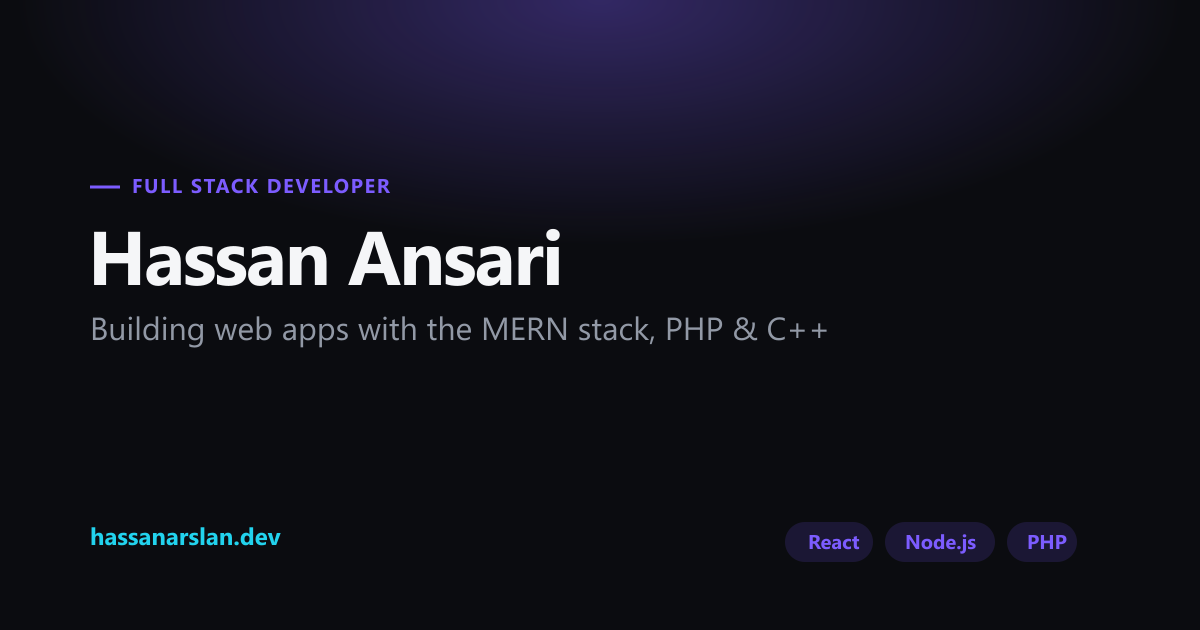
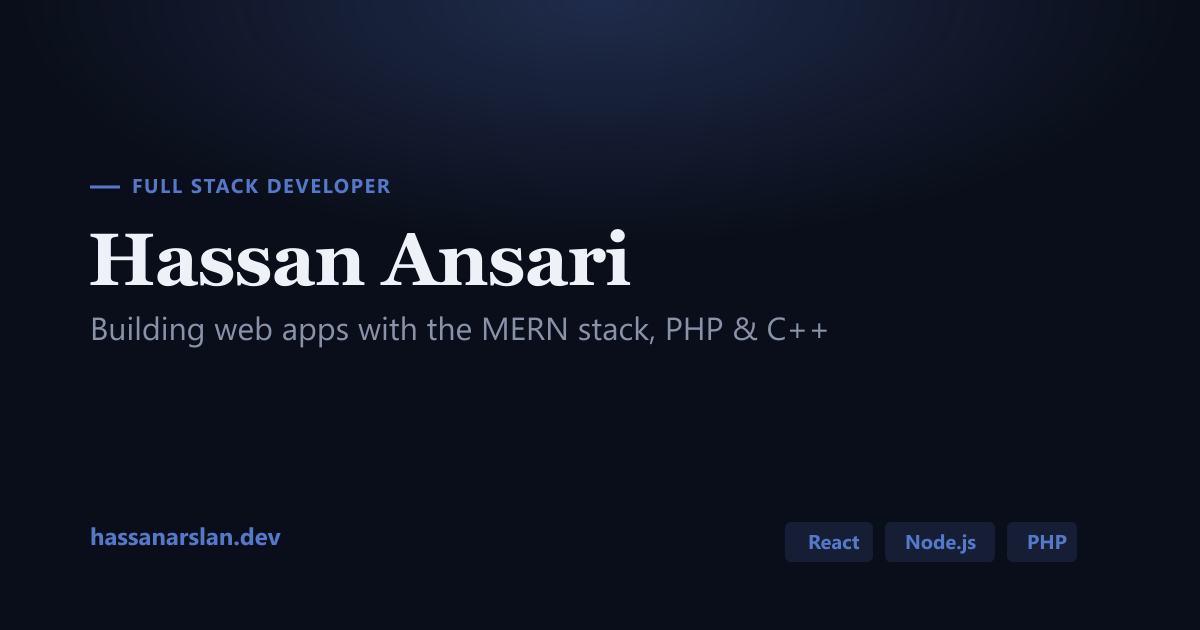
Rework theme to muted navy/slate with serif headings
- Replace purple/cyan gradient palette with a single muted blue accent on navy background, for a more professional/corporate look
- Add Playfair Display serif for headings (h1-h3), keep Inter for body
- Regenerate favicon and OG image to match new palette
- Fix icon components dropping the base .icon class when given a custom className (caused oversized icons, e.g. the project card external-link icon)

diff --git a/src/components/icons.jsx b/src/components/icons.jsx
@@ -1,62 +1,62 @@
-export function GithubIcon(props) {
+export function GithubIcon({ className = '', ...props }) {
   return (
-    <svg className="icon" viewBox="0 0 24 24" {...props}>
+    <svg className={`icon ${className}`} viewBox="0 0 24 24" {...props}>
       <path d="M12 .5C5.73.5.5 5.73.5 12c0 5.08 3.29 9.39 7.86 10.91.58.1.79-.25.79-.56v-2.17c-3.2.7-3.88-1.36-3.88-1.36-.52-1.34-1.28-1.7-1.28-1.7-1.05-.72.08-.7.08-.7 1.16.08 1.77 1.19 1.77 1.19 1.03 1.77 2.7 1.26 3.36.96.1-.75.4-1.26.73-1.55-2.55-.29-5.24-1.28-5.24-5.68 0-1.26.45-2.28 1.19-3.09-.12-.29-.52-1.46.11-3.05 0 0 .97-.31 3.18 1.18a11 11 0 0 1 5.8 0c2.2-1.49 3.17-1.18 3.17-1.18.64 1.59.24 2.76.12 3.05.74.81 1.19 1.83 1.19 3.09 0 4.41-2.7 5.39-5.26 5.67.41.36.78 1.07.78 2.16v3.2c0 .31.21.67.8.56A11.51 11.51 0 0 0 23.5 12c0-6.27-5.23-11.5-11.5-11.5Z" />
     </svg>
   );
 }
 
-export function LinkedinIcon(props) {
+export function LinkedinIcon({ className = '', ...props }) {
   return (
-    <svg className="icon" viewBox="0 0 24 24" {...props}>
+    <svg className={`icon ${className}`} viewBox="0 0 24 24" {...props}>
       <path d="M20.45 20.45h-3.56v-5.57c0-1.33-.02-3.03-1.85-3.03-1.85 0-2.14 1.45-2.14 2.94v5.66H9.34V9h3.41v1.56h.05c.48-.9 1.64-1.85 3.38-1.85 3.61 0 4.28 2.38 4.28 5.47v6.27ZM5.34 7.43a2.06 2.06 0 1 1 0-4.13 2.06 2.06 0 0 1 0 4.13ZM7.12 20.45H3.56V9h3.56v11.45Z" />
     </svg>
   );
 }
 
-export function MailIcon(props) {
+export function MailIcon({ className = '', ...props }) {
   return (
-    <svg className="icon" viewBox="0 0 24 24" {...props}>
+    <svg className={`icon ${className}`} viewBox="0 0 24 24" {...props}>
       <path d="M3 5h18a1 1 0 0 1 1 1v12a1 1 0 0 1-1 1H3a1 1 0 0 1-1-1V6a1 1 0 0 1 1-1Zm17.4 2.28-8.1 6.06a.5.5 0 0 1-.6 0L3.6 7.28A1 1 0 0 0 3 8.16V18h18V8.16a1 1 0 0 0-.6-.88ZM4.2 6l7.8 5.83L19.8 6H4.2Z" />
     </svg>
   );
 }
 
-export function ExternalLinkIcon(props) {
+export function ExternalLinkIcon({ className = '', ...props }) {
   return (
-    <svg className="icon" viewBox="0 0 24 24" {...props}>
+    <svg className={`icon ${className}`} viewBox="0 0 24 24" {...props}>
       <path d="M14 3h7v7h-2V6.41l-9.29 9.3-1.42-1.42 9.3-9.29H14V3ZM5 5h6v2H7v10h10v-4h2v6H5V5Z" />
     </svg>
   );
 }
 
-export function ArrowRightIcon(props) {
+export function ArrowRightIcon({ className = '', ...props }) {
   return (
-    <svg className="icon" viewBox="0 0 24 24" {...props}>
+    <svg className={`icon ${className}`} viewBox="0 0 24 24" {...props}>
       <path d="M13 5l7 7-7 7-1.41-1.41L16.17 13H4v-2h12.17l-4.58-4.59L13 5Z" />
     </svg>
   );
 }
 
-export function DownloadIcon(props) {
+export function DownloadIcon({ className = '', ...props }) {
   return (
-    <svg className="icon" viewBox="0 0 24 24" {...props}>
+    <svg className={`icon ${className}`} viewBox="0 0 24 24" {...props}>
       <path d="M11 3h2v10.17l3.59-3.58L18 11l-6 6-6-6 1.41-1.41L11 13.17V3ZM5 19h14v2H5v-2Z" />
     </svg>
   );
 }
 
-export function PhoneIcon(props) {
+export function PhoneIcon({ className = '', ...props }) {
   return (
-    <svg className="icon" viewBox="0 0 24 24" {...props}>
+    <svg className={`icon ${className}`} viewBox="0 0 24 24" {...props}>
       <path d="M6.62 10.79a15.05 15.05 0 0 0 6.59 6.59l2.2-2.2a1 1 0 0 1 1.02-.24c1.12.37 2.33.57 3.57.57a1 1 0 0 1 1 1V20a1 1 0 0 1-1 1C10.61 21 3 13.39 3 4a1 1 0 0 1 1-1h3.5a1 1 0 0 1 1 1c0 1.24.2 2.45.57 3.57a1 1 0 0 1-.25 1.02l-2.2 2.2Z" />
     </svg>
   );
 }
 
-export function MapPinIcon(props) {
+export function MapPinIcon({ className = '', ...props }) {
   return (
-    <svg className="icon" viewBox="0 0 24 24" {...props}>
+    <svg className={`icon ${className}`} viewBox="0 0 24 24" {...props}>
       <path d="M12 2a7 7 0 0 0-7 7c0 5.25 7 13 7 13s7-7.75 7-13a7 7 0 0 0-7-7Zm0 9.5A2.5 2.5 0 1 1 12 6a2.5 2.5 0 0 1 0 5.5Z" />
     </svg>
   );

diff --git a/src/index.css b/src/index.css
@@ -1,17 +1,18 @@
 :root {
-  --bg: #0b0c10;
-  --bg-alt: #121319;
-  --surface: #16181f;
-  --border: #262834;
-  --text: #c4c7d0;
-  --text-h: #f5f6f8;
-  --text-dim: #7d818f;
-  --accent: #7c5cff;
-  --accent-2: #22d3ee;
-  --accent-bg: rgba(124, 92, 255, 0.12);
+  --bg: #0a0e1a;
+  --bg-alt: #0e1424;
+  --surface: #121a2c;
+  --border: #232d44;
+  --text: #a7b0c2;
+  --text-h: #eef1f7;
+  --text-dim: #626c85;
+  --accent: #5578c9;
+  --accent-hover: #4568b8;
+  --accent-bg: rgba(85, 120, 201, 0.12);
   --shadow: rgba(0, 0, 0, 0.4) 0 10px 30px -10px;
 
   --sans: 'Inter', system-ui, 'Segoe UI', Roboto, sans-serif;
+  --serif: 'Playfair Display', Georgia, 'Times New Roman', serif;
   --mono: ui-monospace, 'SFMono-Regular', Consolas, monospace;
 
   font: 16px/1.6 var(--sans);
@@ -34,10 +35,11 @@ body {
 }
 
 h1, h2, h3 {
-  font-family: var(--sans);
+  font-family: var(--serif);
+  font-weight: 700;
   color: var(--text-h);
   margin: 0;
-  line-height: 1.15;
+  line-height: 1.2;
 }
 
 p {
@@ -79,6 +81,7 @@ section {
   display: inline-flex;
   align-items: center;
   gap: 8px;
+  font-family: var(--sans);
   font-size: 13px;
   font-weight: 600;
   letter-spacing: 0.08em;
@@ -97,7 +100,7 @@ section {
 
 .section-heading {
   font-size: clamp(28px, 4vw, 38px);
-  letter-spacing: -0.02em;
+  letter-spacing: -0.01em;
   margin-bottom: 12px;
 }
 
@@ -113,7 +116,8 @@ section {
   align-items: center;
   gap: 8px;
   padding: 12px 22px;
-  border-radius: 8px;
+  border-radius: 6px;
+  font-family: var(--sans);
   font-size: 15px;
   font-weight: 600;
   border: 1px solid transparent;
@@ -131,7 +135,7 @@ section {
 }
 
 .btn-primary:hover {
-  background: #6a4ce0;
+  background: var(--accent-hover);
 }
 
 .btn-outline {

diff --git a/index.html b/index.html
@@ -4,9 +4,13 @@
     <meta charset="UTF-8" />
     <link rel="icon" type="image/svg+xml" href="/favicon.svg" />
     <meta name="viewport" content="width=device-width, initial-scale=1.0" />
-    <meta name="theme-color" content="#0b0c10" />
+    <meta name="theme-color" content="#0a0e1a" />
     <meta name="description" content="Hassan Ansari — Full Stack Developer building MERN and PHP web applications. BSCS student from Lahore, Pakistan." />
     <title>Hassan Ansari | Full Stack Developer</title>
+
+    <link rel="preconnect" href="https://fonts.googleapis.com" />
+    <link rel="preconnect" href="https://fonts.gstatic.com" crossorigin />
+    <link href="https://fonts.googleapis.com/css2?family=Playfair+Display:wght@600;700&family=Inter:wght@400;500;600;700&display=swap" rel="stylesheet" />
 
     <link rel="canonical" href="https://hassanarslan.dev/" />
 

diff --git a/src/components/Hero.css b/src/components/Hero.css
@@ -13,7 +13,7 @@
   transform: translateX(-50%);
   width: 900px;
   height: 500px;
-  background: radial-gradient(circle, rgba(124, 92, 255, 0.25) 0%, rgba(124, 92, 255, 0) 70%);
+  background: radial-gradient(circle, rgba(85, 120, 201, 0.22) 0%, rgba(85, 120, 201, 0) 70%);
   pointer-events: none;
   z-index: -1;
 }
@@ -29,10 +29,7 @@
 }
 
 .accent-text {
-  background: linear-gradient(90deg, var(--accent), var(--accent-2));
-  -webkit-background-clip: text;
-  background-clip: text;
-  color: transparent;
+  color: var(--accent);
 }
 
 .hero-sub {
@@ -61,7 +58,7 @@
 }
 
 .hero-resume-link:hover {
-  color: var(--accent-2);
+  color: var(--accent);
 }
 
 .hero-socials {

diff --git a/src/components/Projects.css b/src/components/Projects.css
@@ -37,7 +37,7 @@
 .project-domain {
   font-family: var(--mono);
   font-size: 13px;
-  color: var(--accent-2);
+  color: var(--accent);
   margin-bottom: 16px;
 }
 
